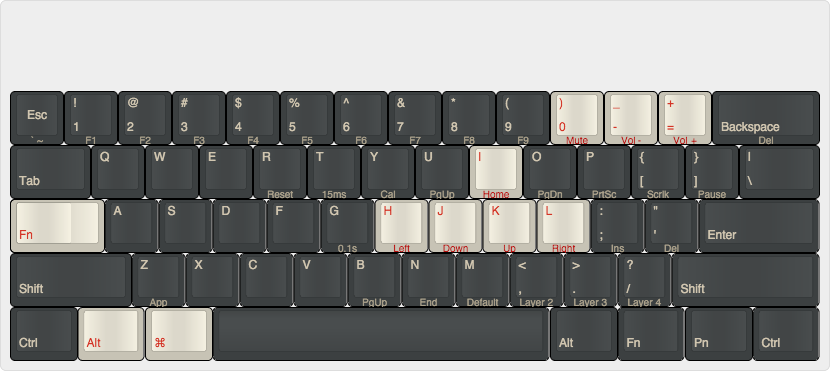
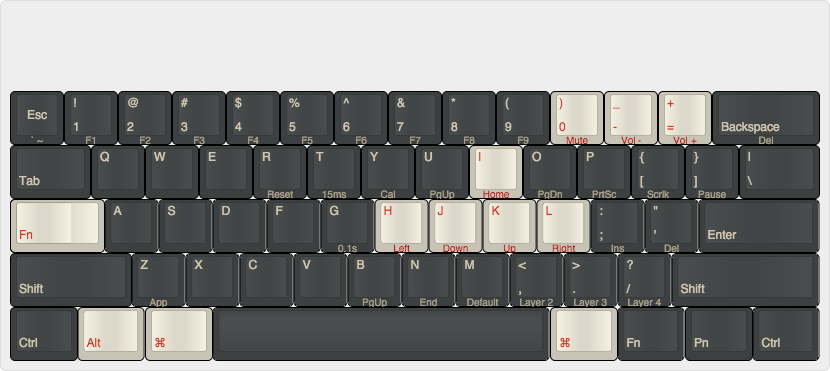
Updated R_Alt to be CMD

Changed region(s): [[0.6627, 0.8302, 0.753, 0.9784]]

diff --git a/README.md b/README.md
@@ -3,4 +3,4 @@
 
 ![Layer 2 Layout](img/layer-2.png)
 
-Layer 2 Layout on [keyboard-layout-editor.com](http://www.keyboard-layout-editor.com/##@_name=Pok3r%20Layer%202&author=shawyu&switchMount=cherry&switchBrand=cherry&switchType=MX1A-C1xx%3B&@_y:1.5&c=%233c4041&t=%23aba18b&p=DCS&a:7%3B&=Esc%0A%0A%0A%0A%60%20~&_a:4%3B&=!%0A1%0A%0A%0AF1&=%2F@%0A2%0A%0A%0AF2&=%23%0A3%0A%0A%0AF3&=$%0A4%0A%0A%0AF4&=%25%0A5%0A%0A%0AF5&=%5E%0A6%0A%0A%0AF6&=%2F&%0A7%0A%0A%0AF7&=*%0A8%0A%0A%0AF8&=(%0A9%0A%0A%0AF9&_c=%23c7c3b5&t=%23ba1312%3B&=)%0A0%0A%0A%0AMute&=%2F_%0A-%0A%0A%0AVol%20-&=+%0A%2F=%0A%0A%0AVol%20+&_c=%233c4041&t=%23aba18b&w:2%3B&=%0ABackspace%0A%0A%0ADel%3B&@_w:1.5%3B&=%0ATab&=Q&=W&=E&=R%0A%0A%0A%0AReset&=T%0A%0A%0A%0A15ms&=Y%0A%0A%0A%0ACal&=U%0A%0A%0A%0APgUp&_c=%23c7c3b5&t=%23ba1312%3B&=I%0A%0A%0A%0AHome&_c=%233c4041&t=%23aba18b%3B&=O%0A%0A%0A%0APgDn&=P%0A%0A%0A%0APrtSc&=%7B%0A%5B%0A%0A%0AScrlk&=%7D%0A%5D%0A%0A%0APause&_w:1.5%3B&=%7C%0A%5C%3B&@_c=%23c7c3b5&t=%23ba1312&w:1.25&w2:1.75%3B&=%0AFn&_x:0.5&c=%233c4041&t=%23aba18b%3B&=A&=S&=D&=F&=G%0A%0A%0A%0A0.1s&_c=%23c7c3b5&t=%23ba1312%3B&=H%0A%0A%0A%0ALeft&=J%0A%0A%0A%0ADown&=K%0A%0A%0A%0AUp&=L%0A%0A%0A%0ARight&_c=%233c4041&t=%23aba18b%3B&=%2F:%0A%2F%3B%0A%0A%0AIns&=%22%0A'%0A%0A%0ADel&_w:2.25%3B&=%0AEnter%3B&@_w:2.25%3B&=%0AShift&=Z%0A%0A%0A%0AApp&=X&=C&=V&=B%0A%0A%0A%0APgUp&=N%0A%0A%0A%0AEnd&=M%0A%0A%0A%0ADefault&=%3C%0A,%0A%0A%0ALayer%202&=%3E%0A.%0A%0A%0ALayer%203&=%3F%0A%2F%2F%0A%0A%0ALayer%204&_w:2.75%3B&=%0AShift%3B&@_w:1.25%3B&=%0ACtrl&_c=%23c7c3b5&t=%23ba1312&w:1.25%3B&=%0AAlt&_w:1.25%3B&=%0A%E2%8C%98&_c=%233c4041&t=%23aba18b&p=DCS%20SPACE&a:7&w:6.25%3B&=&_p=DCS&a:4&w:1.25%3B&=%0AAlt&_w:1.25%3B&=%0AFn&_w:1.25%3B&=%0APn&_w:1.25%3B&=%0ACtrl)
+Layer 2 Layout on [keyboard-layout-editor.com](http://www.keyboard-layout-editor.com/##@_name=Pok3r%20Layer%202&author=shawyu&switchMount=cherry&switchBrand=cherry&switchType=MX1A-C1xx%3B&@_y:1.5&c=%233c4041&t=%23aba18b&p=DCS&a:7%3B&=Esc%0A%0A%0A%0A%60%20~&_a:4%3B&=!%0A1%0A%0A%0AF1&=%2F@%0A2%0A%0A%0AF2&=%23%0A3%0A%0A%0AF3&=$%0A4%0A%0A%0AF4&=%25%0A5%0A%0A%0AF5&=%5E%0A6%0A%0A%0AF6&=%2F&%0A7%0A%0A%0AF7&=*%0A8%0A%0A%0AF8&=(%0A9%0A%0A%0AF9&_c=%23c7c3b5&t=%23ba1312%3B&=)%0A0%0A%0A%0AMute&=%2F_%0A-%0A%0A%0AVol%20-&=+%0A%2F=%0A%0A%0AVol%20+&_c=%233c4041&t=%23aba18b&w:2%3B&=%0ABackspace%0A%0A%0ADel%3B&@_w:1.5%3B&=%0ATab&=Q&=W&=E&=R%0A%0A%0A%0AReset&=T%0A%0A%0A%0A15ms&=Y%0A%0A%0A%0ACal&=U%0A%0A%0A%0APgUp&_c=%23c7c3b5&t=%23ba1312%3B&=I%0A%0A%0A%0AHome&_c=%233c4041&t=%23aba18b%3B&=O%0A%0A%0A%0APgDn&=P%0A%0A%0A%0APrtSc&=%7B%0A%5B%0A%0A%0AScrlk&=%7D%0A%5D%0A%0A%0APause&_w:1.5%3B&=%7C%0A%5C%3B&@_c=%23c7c3b5&t=%23ba1312&w:1.25&w2:1.75%3B&=%0AFn&_x:0.5&c=%233c4041&t=%23aba18b%3B&=A&=S&=D&=F&=G%0A%0A%0A%0A0.1s&_c=%23c7c3b5&t=%23ba1312%3B&=H%0A%0A%0A%0ALeft&=J%0A%0A%0A%0ADown&=K%0A%0A%0A%0AUp&=L%0A%0A%0A%0ARight&_c=%233c4041&t=%23aba18b%3B&=%2F:%0A%2F%3B%0A%0A%0AIns&=%22%0A'%0A%0A%0ADel&_w:2.25%3B&=%0AEnter%3B&@_w:2.25%3B&=%0AShift&=Z%0A%0A%0A%0AApp&=X&=C&=V&=B%0A%0A%0A%0APgUp&=N%0A%0A%0A%0AEnd&=M%0A%0A%0A%0ADefault&=%3C%0A,%0A%0A%0ALayer%202&=%3E%0A.%0A%0A%0ALayer%203&=%3F%0A%2F%2F%0A%0A%0ALayer%204&_w:2.75%3B&=%0AShift%3B&@_w:1.25%3B&=%0ACtrl&_c=%23c7c3b5&t=%23ba1312&w:1.25%3B&=%0AAlt&_w:1.25%3B&=%0A%E2%8C%98&_c=%233c4041&t=%23aba18b&p=DCS%20SPACE&a:7&w:6.25%3B&=&_c=%23c7c3b5&t=%23ba1312&p=DCS&a:4&w:1.25%3B&=%0A%E2%8C%98&_c=%233c4041&t=%23aba18b&w:1.25%3B&=%0AFn&_w:1.25%3B&=%0APn&_w:1.25%3B&=%0ACtrl)
